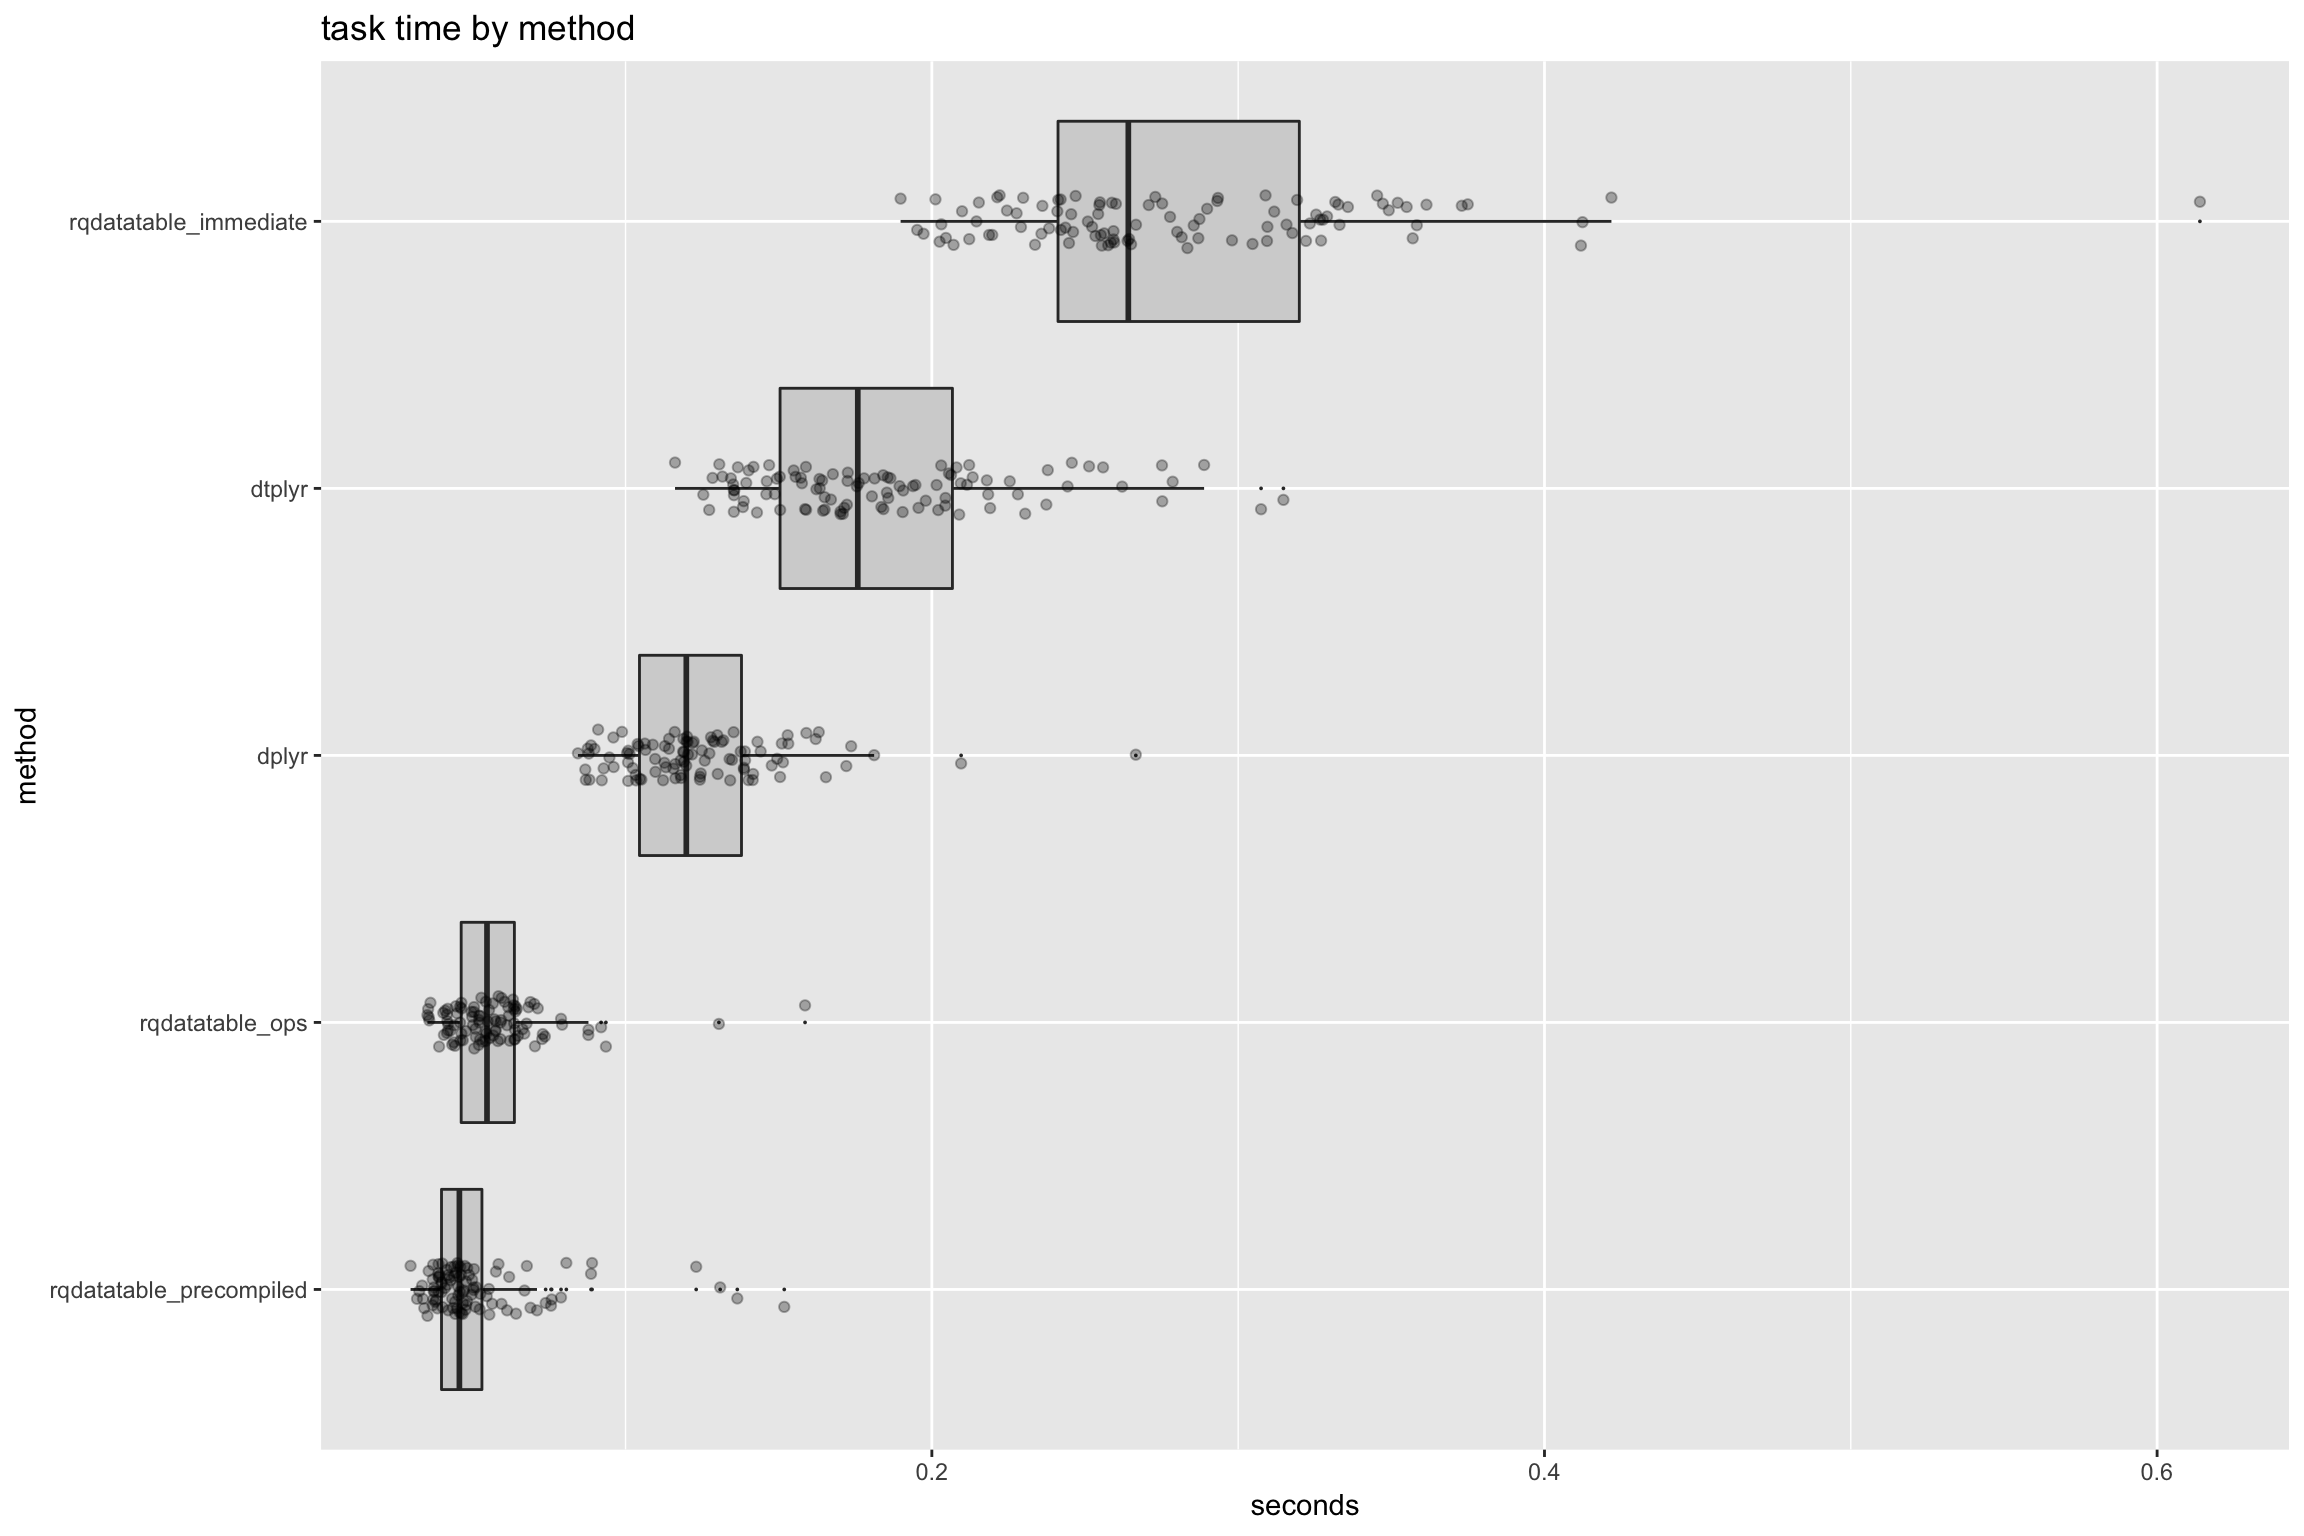
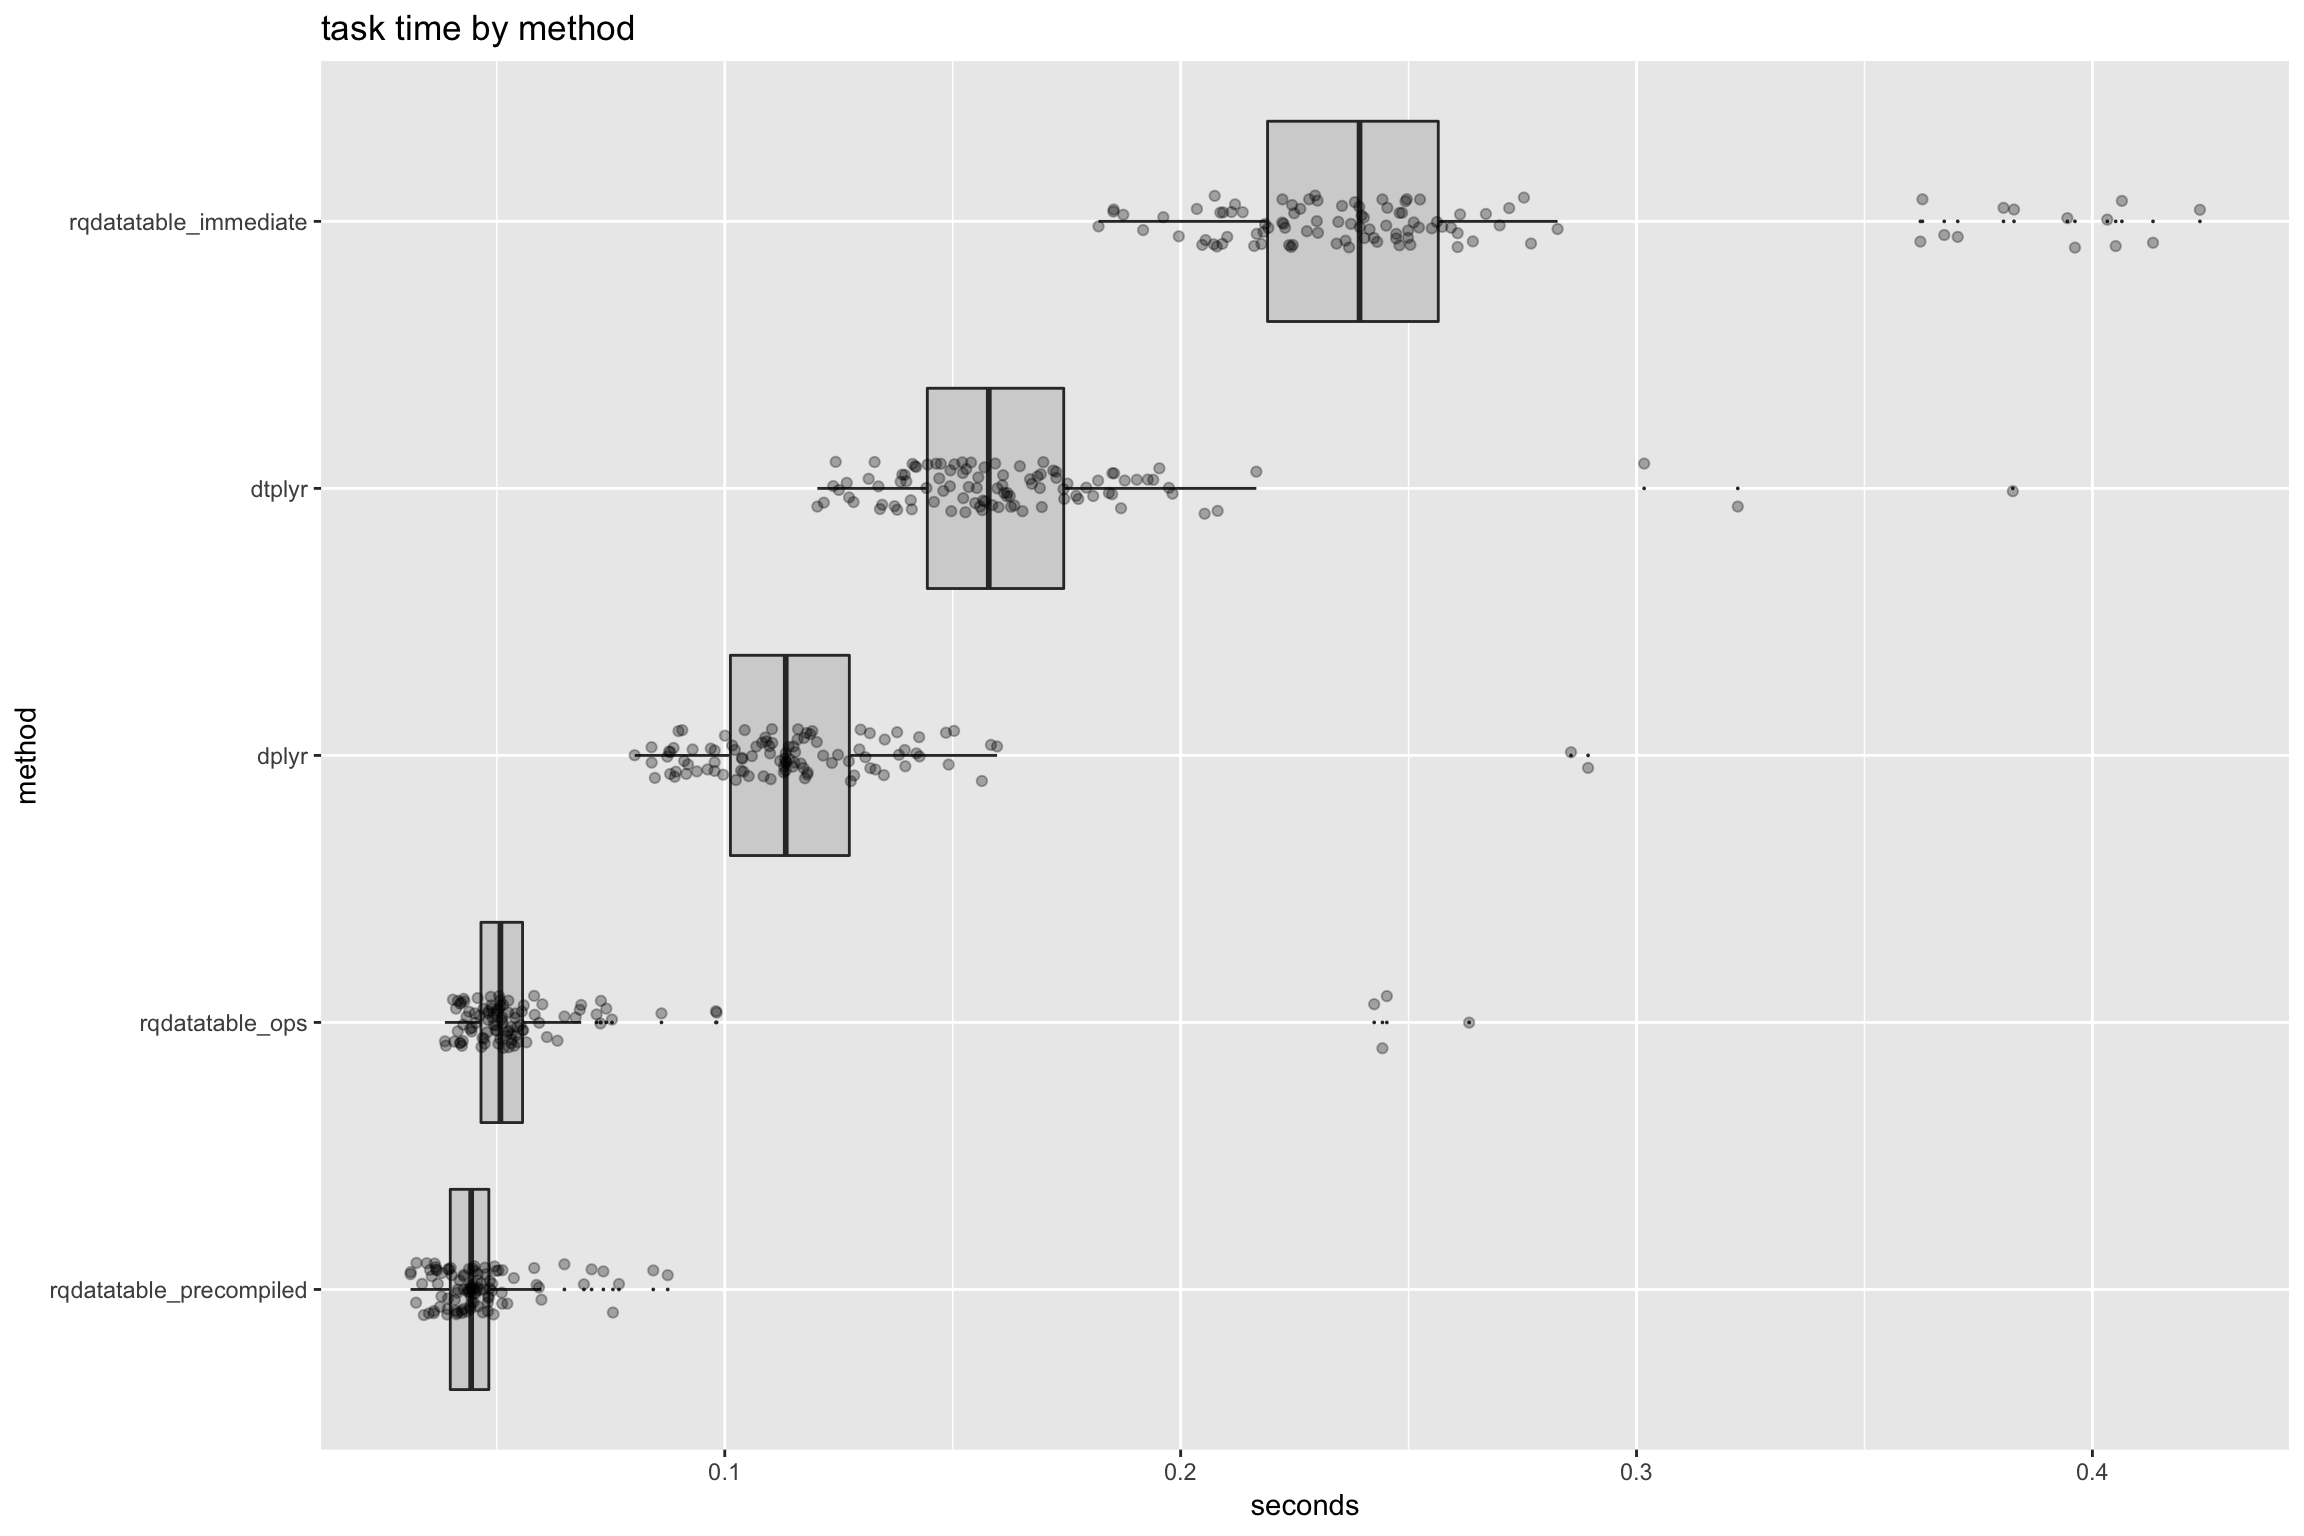
add database example

diff --git a/extras/ImmediateIssue.md b/extras/ImmediateIssue.md
@@ -1,11 +1,58 @@
 Immediate Issue
 ================
 
-In this note we will explain `rqdatatable` immediate mode. We will also explain why one should still consider building explicit operator trees as a best practice in `rqdatatable`/`rquery`.
+In this note we will explain [`rqdatatable`](https://CRAN.R-project.org/package=rqdatatable) immediate mode. We will also explain why one should still consider building explicit operator trees as a best practice in [`rqdatatable`](https://CRAN.R-project.org/package=rqdatatable)/[`rquery`](https://CRAN.R-project.org/package=rquery).
+
+``` r
+library("dplyr")
+```
+
+    ## Warning: package 'dplyr' was built under R version 3.5.1
+
+    ## 
+    ## Attaching package: 'dplyr'
+
+    ## The following objects are masked from 'package:stats':
+    ## 
+    ##     filter, lag
+
+    ## The following objects are masked from 'package:base':
+    ## 
+    ##     intersect, setdiff, setequal, union
+
+``` r
+library("dbplyr")
+```
+
+    ## 
+    ## Attaching package: 'dbplyr'
+
+    ## The following objects are masked from 'package:dplyr':
+    ## 
+    ##     ident, sql
+
+``` r
+library("data.table")
+```
+
+    ## 
+    ## Attaching package: 'data.table'
+
+    ## The following objects are masked from 'package:dplyr':
+    ## 
+    ##     between, first, last
+
+``` r
+library("dtplyr")
+library("microbenchmark")
+library("WVPlots")
+library("rqdatatable")
+```
+
+    ## Loading required package: rquery
 
 ``` r
 flights <- nycflights13::flights
-# flights <- do.call(rbind, rep(list(flights), 10))
 str(flights)
 ```
 
@@ -31,32 +78,39 @@ str(flights)
     ##  $ time_hour     : POSIXct, format: "2013-01-01 05:00:00" "2013-01-01 05:00:00" ...
 
 ``` r
-library("data.table")
 flights_dt <- data.table::as.data.table(flights)
+
+con <- DBI::dbConnect(RPostgreSQL::PostgreSQL(),
+                      host = 'localhost',
+                      port = 5432,
+                      user = 'johnmount',
+                      password = '')
+
+dbopts <- rq_connection_tests(con)
+db_info <- rquery_db_info(connection = con, 
+                          is_dbi = TRUE,
+                          connection_options = dbopts)
+  
+copy_to(con, flights, "flights",
+  temporary = TRUE, 
+  overwrite = TRUE,
+  indexes = list(
+    c("year", "month", "day"), 
+    "carrier", 
+    "tailnum",
+    "dest"
+  )
+)
+
+flights_db <- tbl(con, "flights")
 ```
+
+In-memory examples
+==================
 
 Example adapted from <https://cran.r-project.org/web/packages/dbplyr/vignettes/dbplyr.html>.
 
-``` r
-library("dplyr")
-```
-
-    ## Warning: package 'dplyr' was built under R version 3.5.1
-
-    ## 
-    ## Attaching package: 'dplyr'
-
-    ## The following objects are masked from 'package:data.table':
-    ## 
-    ##     between, first, last
-
-    ## The following objects are masked from 'package:stats':
-    ## 
-    ##     filter, lag
-
-    ## The following objects are masked from 'package:base':
-    ## 
-    ##     intersect, setdiff, setequal, union
+[`dplyr`](https://CRAN.R-project.org/package=dplyr) example.
 
 ``` r
 tailnum_delay_dplyr <- flights %>% 
@@ -82,9 +136,9 @@ head(tailnum_delay_dplyr)
     ## 5 N13123   26.0   113
     ## 6 N11192   25.9   149
 
-``` r
-library("dtplyr")
+[`dtplyr`](https://CRAN.R-project.org/package=dtplyr) example.
 
+``` r
 class(flights_dt)
 ```
 
@@ -122,11 +176,7 @@ head(tailnum_delay_dtplyr)
     ## 5 N13123   26.0   113
     ## 6 N11192   25.9   149
 
-``` r
-library("rqdatatable")
-```
-
-    ## Loading required package: rquery
+[`rqdatatable`](https://CRAN.R-project.org/package=rqdatatable) example.
 
 ``` r
 ops <- flights %.>%
@@ -196,8 +246,6 @@ We will compare four ways of processing the flights data.
 -   `rqdatatable_immediate` a convenience method for using `rquery` operators directly on in-memory data, without taking the time to pre-define the operator pipeline. We will call this mode "immediate mode". The point is it is a user convenience- but it has some overhead.
 
 ``` r
-library("microbenchmark")
-
 timings <- microbenchmark(
   dplyr = nrow(
     flights %>% 
@@ -272,3 +320,77 @@ Our advice is: use `rqdatatable` immediate only for convenience. Please get in t
 > `dtplyr` will always be a bit slower than `data.table`, because it creates copies of objects rather than mutating in place (that's the `dplyr` philosophy). Currently, `dtplyr` is quite a lot slower than bare data.table because the methods aren't quite smart enough.
 
 We emphasize the "smart enough" is likely meaning "tracking more state" (such as tracking object visibility to avoid copying) and probably not a pejorative.
+
+Database examples
+=================
+
+``` r
+tailnum_delay_dbplyr <- flights_db %>% 
+  filter(!is.na(arr_delay)) %>%
+  group_by(tailnum) %>%
+  summarise(
+    delay = mean(arr_delay, na.rm = TRUE),
+    n = n()
+  ) %>% 
+  arrange(desc(delay)) %>%
+  filter(n > 100) 
+
+head(tailnum_delay_dbplyr)
+```
+
+    ## # Source:     lazy query [?? x 3]
+    ## # Database:   postgres 10.4.0 [johnmount@localhost:5432/johnmount]
+    ## # Ordered by: desc(delay)
+    ##   tailnum delay     n
+    ##   <chr>   <dbl> <dbl>
+    ## 1 N11119   30.3   137
+    ## 2 N16919   29.9   231
+    ## 3 N14998   27.9   218
+    ## 4 N15910   27.6   265
+    ## 5 N13123   26.0   113
+    ## 6 N11192   25.9   149
+
+``` r
+db_info %.>% 
+  ops %.>%
+  head(.)
+```
+
+    ##   tailnum    delay   n
+    ## 1  N11119 30.30657 137
+    ## 2  N16919 29.88745 231
+    ## 3  N14998 27.92202 218
+    ## 4  N15910 27.61132 265
+    ## 5  N13123 25.97345 113
+    ## 6  N11192 25.85235 149
+
+``` r
+timingsdb <- microbenchmark(
+  dbplyr = flights_db %>%
+    filter(!is.na(arr_delay)) %>%
+    group_by(tailnum) %>%
+    summarise(
+      delay = mean(arr_delay, na.rm = TRUE),
+      n = n()
+    ) %>%
+    arrange(desc(delay)) %>%
+    filter(n > 100) %>%
+    collect(),
+  rquery = db_info %.>% 
+    ops 
+)
+
+timingsdb <- as.data.frame(timingsdb)
+timingsdb$seconds <- timingsdb$time/10^9 
+timingsdb$method <- factor(timingsdb$expr)
+timingsdb$method <- reorder(timingsdb$method, timingsdb$seconds)
+WVPlots::ScatterBoxPlotH(timingsdb,  "seconds", "method", "database task time by method")
+```
+
+<img src="ImmediateIssue_files/figure-markdown_github/timingdb-1.png" width="1152" />
+
+``` r
+DBI::dbDisconnect(con)
+```
+
+    ## [1] TRUE
